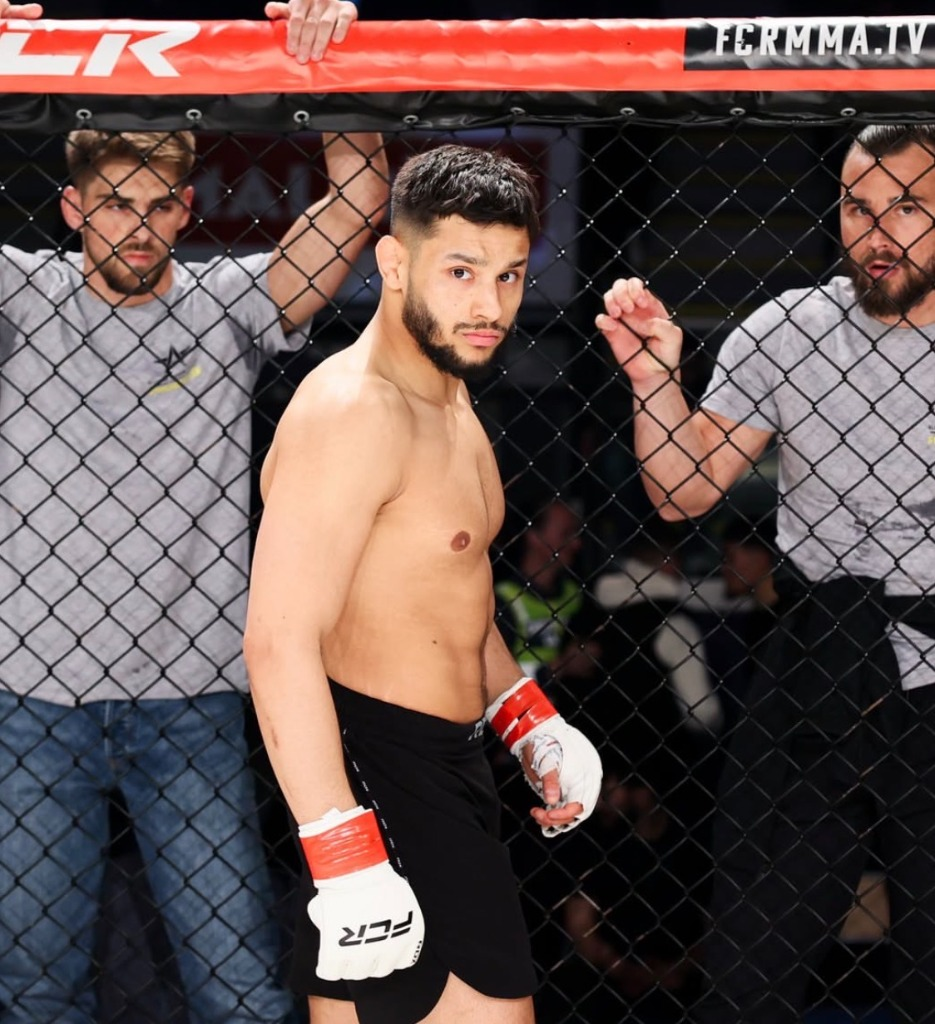
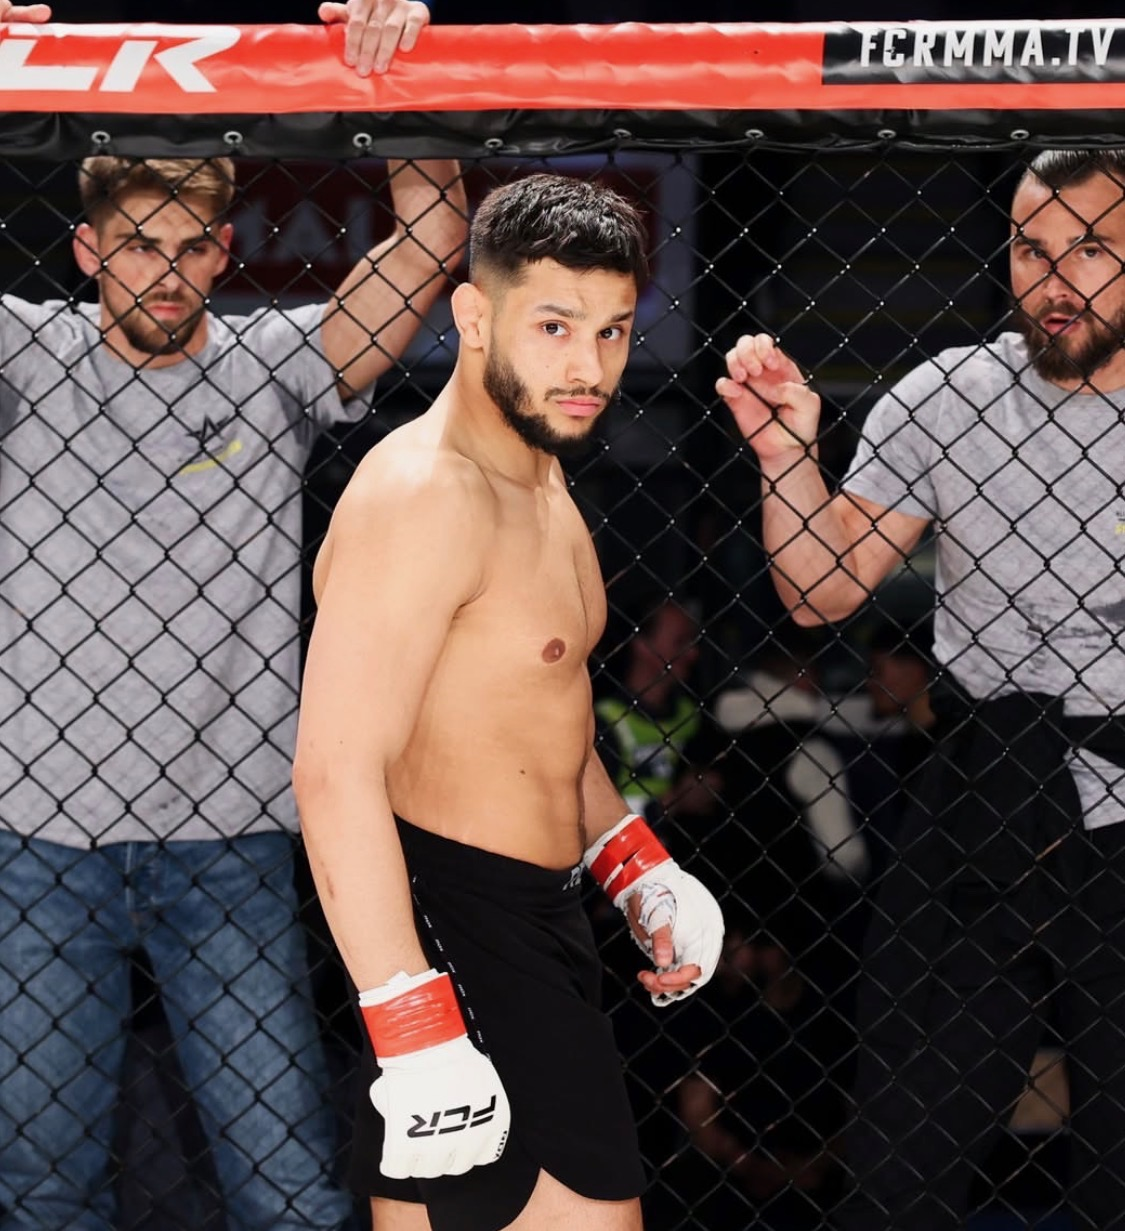
2

diff --git a/src/data/fighter.js b/src/data/fighter.js
@@ -56,9 +56,10 @@ export const professionalRecord = [
     videoPoster: "/assets/nikakalandadze3.JPG",
     photos: [
       "/assets/nikakalandadze3.JPG", // Action 3 - Position 1
-      "/assets/kalandadze-action-1.jpg", // Action 1 - Position 2
-      "/assets/nikakalandadze2.JPG", // Action 2 - Position 3
-      "/assets/kalandadze-final-win.jpg" // Victory - Position 4
+      "/assets/kalandadze-1.jpg", // New high quality - Position 2
+      "/assets/IMG_4921.jpeg", // New image - Position 3
+      "/assets/nikakalandadze2.JPG", // Action 2 - Position 4
+      "/assets/kalandadze-final-win.jpg" // Victory - Position 5
     ]
   },
   {
